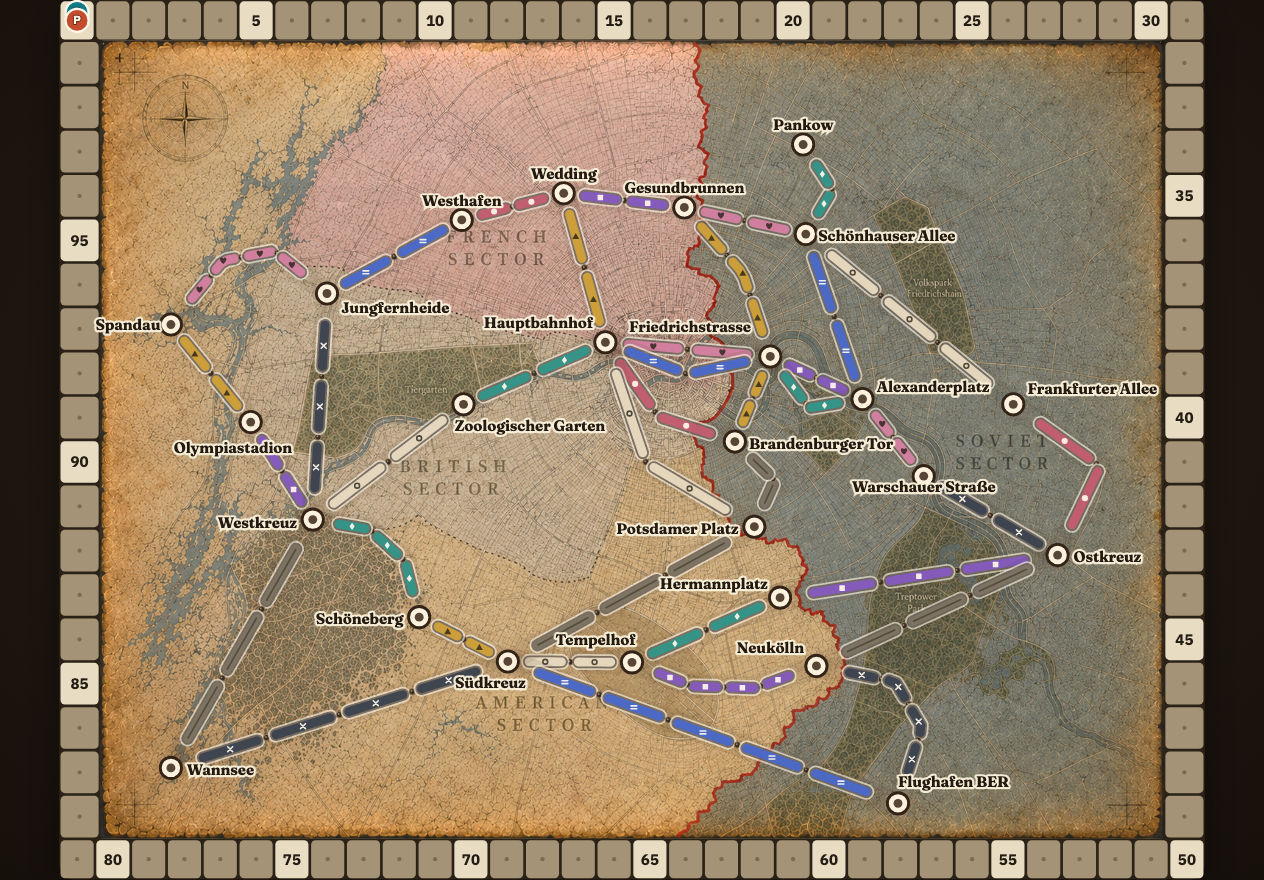
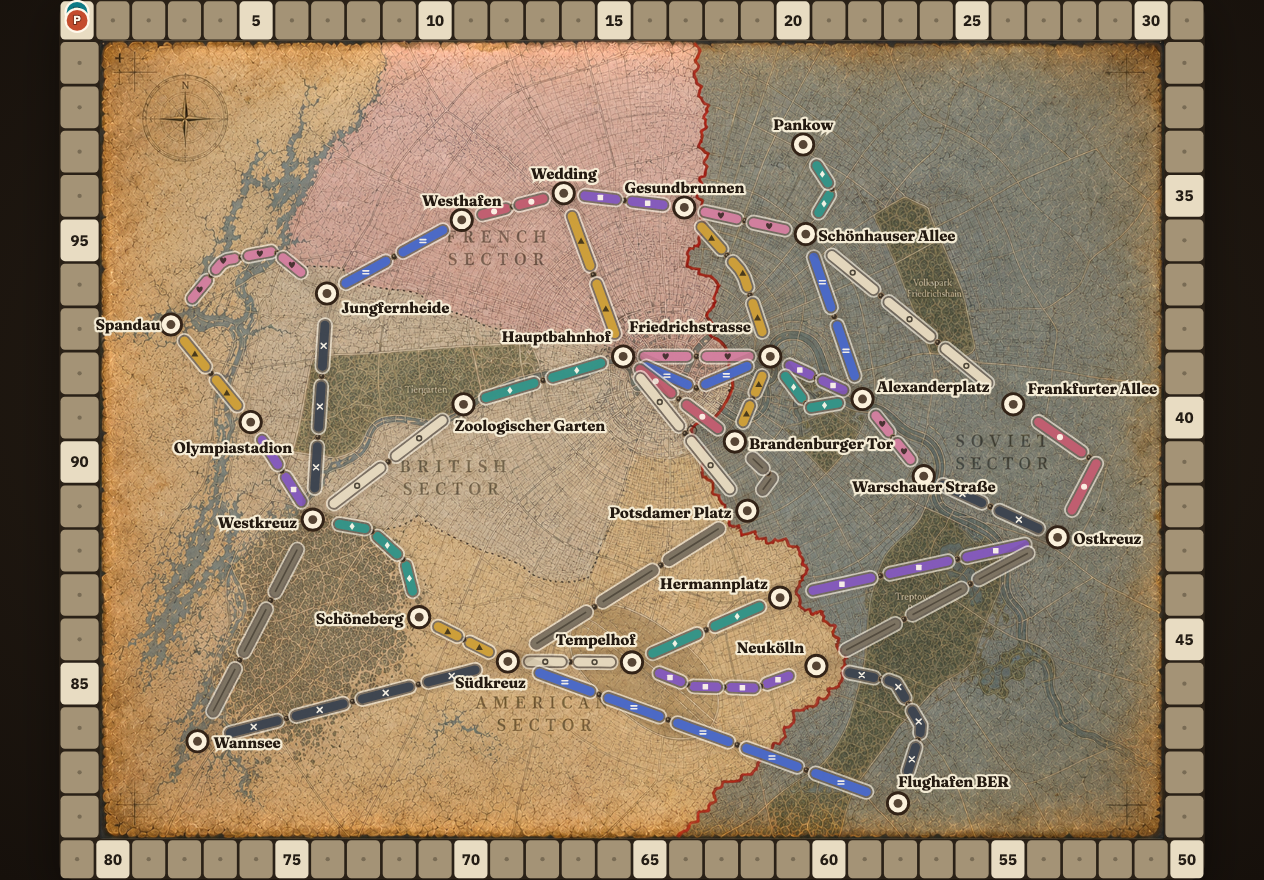
fix(maps): even out space sizes on both boards
Route lengths are unchanged on both maps; only positions and bends move.

Berlin: Hauptbahnhof, Potsdamer Platz, Ostkreuz and Wannsee shift slightly,
each on its own side of the wall. A space is now 52 to 112 map units long.

New York v0.5: Downtown Brooklyn and Red Hook sit nearer the harbor mouth,
Grove St nearer Hoboken, Newark Penn and Jamaica a little closer in, and
Exchange Place moves fully onto land. A space was 46 to 214 units long and is
now about 50 to 161, apart from the six-space Newark Airport to Hudson Yards
route, which has to go round New Jersey.

diff --git a/configs/hudson-hustle/releases/berlin/notes.md b/configs/hudson-hustle/releases/berlin/notes.md
@@ -95,3 +95,4 @@
 - Station names are written in full with umlauts on both the board and the tickets.
 - Basemap `berlin-cold-war-reference-v5.png`: the same picture as v4 with the dark vignette at the edges mostly lifted and the whole sheet a little lighter, so it sits closer to the New York board.
 - Short routes are drawn with a curve so their spaces are closer in size to the rest: Spandau to Jungfernheide, Neukölln to Flughafen BER, Neukölln to Tempelhof, Schöneberg to Westkreuz, Schönhauser Allee to Pankow and Potsdamer Platz to Brandenburger Tor. Zoologischer Garten and Tempelhof moved slightly to even out their neighbours. Lengths are unchanged; a space is now between about 52 and 143 map units long, from 45 to 153.
+- Second pass on space sizes: Hauptbahnhof, Potsdamer Platz, Ostkreuz and Wannsee moved slightly, all on their own side of the wall. The longest space is now about 112 map units, the shortest about 52.

diff --git a/configs/hudson-hustle/releases/v0.5-river-crossings/notes.md b/configs/hudson-hustle/releases/v0.5-river-crossings/notes.md
@@ -10,3 +10,7 @@
 - `newark-airport-hudson-yards` keeps its length, colour and type. It used to run along the left and top edges of the board, where it read as a frame; it now curves through New Jersey a little inside the edge.
 - Board labels show full station names, matching tickets.
 - Uses basemap `nyc-hudson-ai-reference-v2.png`: the band that was painted along the left and top edges of v1 is removed.
+
+## Space Sizes
+- Stations were nudged so the spaces on different routes are closer in size; lengths are unchanged. Downtown Brooklyn and Red Hook sit nearer the harbor mouth, Grove St nearer Hoboken, Newark Penn and Jamaica a little closer in.
+- A space was between 46 and 214 map units long; it is now between about 50 and 161, leaving aside the six-space Newark Airport to Hudson Yards route, which is about 205 because it has to go round New Jersey.
